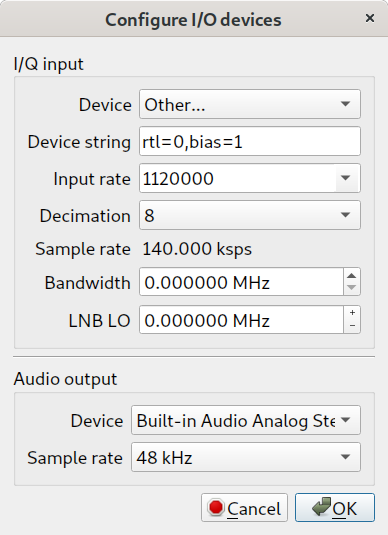
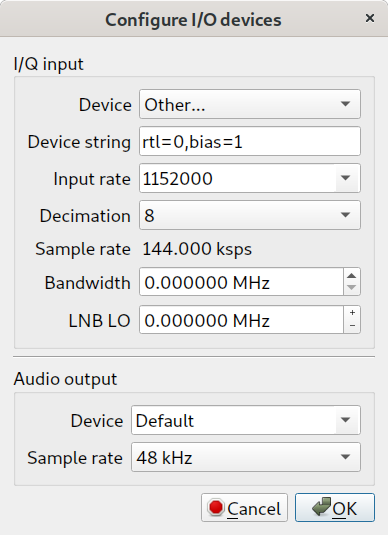
updated gqrx draft

Changed region(s): [[0.3402, 0.7776, 0.866, 0.8075], [0.4021, 0.2991, 0.5567, 0.3589], [0.4021, 0.4486, 0.5876, 0.4785]]

diff --git a/_drafts/receive-meteor-satellite-images-with-rtlsdr-gqrx-linux.md b/_drafts/receive-meteor-satellite-images-with-rtlsdr-gqrx-linux.md
@@ -1,6 +1,6 @@
 ---
 layout: post
-title: "Receive METEOR weather satellite images with RTLSDR and Gqrx on Linux"
+title: "Receive METEOR weather satellite images with RTLSDR and GQRX on Linux"
 image: "/images/themes/theme_sdradio.jpg"
 tags: [linux, rtlsdr, gqrx, meteorsat, featured]
 category: linux
@@ -25,9 +25,9 @@ There are 3 satellites in orbit:
 |Satellite|Frequency|Bandwidth|Data|Symbol rate|Modulation|
 |----------|--------|-------|--------|---|---|
 |METEOR-M N2|137.1 MHz|140 kHz|LRPT|72000|QPSK|
-|METEOR-M N2-2|137.1 MHz|140 kHz|LRPT|80000|OQPSK|
+|METEOR-M N2-2|137.9 MHz|140 kHz|LRPT|72000|OQPSK|
 
-Good online resource with more information (active APIDs, ...) is <http://happysat.nl/Meteor/html/Meteor_Status.html>
+Good online resource with more information (active APIDs, ...) is <http://happysat.nl/Meteor/html/Meteor_Status.html>.
 
 
 <!--more-->
@@ -46,7 +46,7 @@ Good online resource with more information (active APIDs, ...) is <http://happys
  * gqrx
  * gpredict
  * sox
- * meteor_demod <https://github.com/dbdexter-dev/meteor_demod> (v0.2.1 for M N2 / v0.3 for M N2-2)
+ * meteor_demod <https://github.com/dbdexter-dev/meteor_demod>
  * meteor_decoder <https://github.com/artlav/meteor_decoder>
    * alternative: meteor_decode <https://github.com/dbdexter-dev/meteor_decode>
  * meteor_rectify <https://github.com/dbdexter-dev/meteor_rectify>
@@ -56,9 +56,10 @@ Good online resource with more information (active APIDs, ...) is <http://happys
 
 I've bought a QFH antenna from a manufacturer, but there are lot of DIY tutorials out there.
 You may get good results with the RTLSDR bundle V-dipole antenna if it's correctly aligned and
-both poles have been shorten to 53.4cm, more information on <https://www.rtl-sdr.com/simple-noaameteor-weather-satellite-antenna-137-mhz-v-dipole/>.
+both poles have been shorten to 53.4cm, more information on [https://www.rtl-sdr.com/simple-noaameteor-weather-satellite-antenna-137-mhz-v-dipole/](https://www.rtl-sdr.com/simple-noaameteor-weather-satellite-antenna-137-mhz-v-dipole/).
 
 {% include image_caption.html imageurl="/images/posts/gqrx-meteor/qfh_outdoor.jpg" title="QFH antenna" caption="QFH antenna" %}
+
 
 
 # Using gpredict for pass prediction
@@ -69,28 +70,34 @@ METEOR-M2 2 satellites to the module and look at the **sky at a glance** window.
 
 {% include image_caption.html imageurl="/images/posts/gqrx-meteor/gpredict_meteor.png" title="Gpredict" caption="Gpredict" %}
 
-
+{% include image_caption.html imageurl="/images/posts/gqrx-meteor/gpredict_sky.png" title="Gpredict Sky at a glance" caption="Gpredict Sky at a glance" %}
 
 
 
 # Capture a raw IQ file with Gqrx
 
-The bandwith for METEOR LRPT signals is 140 kHz. Some people recommend to use decimation
-to improve the signal quality. I've not tested it but my usual configuration looks like:
+The bandwith for METEOR LRPT signals is 140 kHz. I usually configure the RTLSDR device
+using the following parameters.
+
 
 {% include image_caption.html imageurl="/images/posts/gqrx-meteor/gqrx_meteor_settings.png" title="Gpredict" caption="Gpredict" %}
 
-I'm using the RTLSDR aplifier which requires Bias-T powering. This can be enabled
+I'm using the RTLSDR amplifier which requires Bias-T powering. This can be enabled
 with *bias=1*. **Don't use it when you don't have the RTLSDR amplifier!**
 
 Make sure the value for the **channel offset** in tab *Receiver settings* is set to zero.
 If not, the IQ recording is not centered at the signal and you won't be able do decode
 it.
 
-Gqrx has a builtin IQ recorder. Just press record when you see the satellite signal in
-the waterfall diagramm.
+Gqrx has a builtin IQ recorder. This writes the baseband I/Q stream into a file.
 
-{% include image_caption.html imageurl="/images/posts/gqrx-meteor/gqrx_meteor_recording.png" title="Gpredict" caption="Gpredict" %}
+{% include image_caption.html imageurl="/images/posts/gqrx-meteor/gqrx_recorder.png" title="Recorder" caption="Recorder" %}
+
+This file is encoded as 2 floats (32 bit) per sample. We need to convert this file to 2 short ints (16 bit) later.
+
+When receiving a METEOR signal, the waterfall diagram should look like this:
+
+{% include image_caption.html imageurl="/images/posts/gqrx-meteor/gqrx_meteor_recording.png" title="GQRX" caption="GQRX" %}
 
 ## Convert the raw IQ file to a wav file
 
@@ -100,10 +107,10 @@ meteor_demod could only read 16 bit signed integer or 8 bit unsigned integer. Wi
 meteor_demod couldn't read the file.
 
 ~~~
-sox -t raw -e floating-point -b 32 -c 2 -r 140000 \
-   gqrx_20190908_085103_137100000_140000_fc.raw \
-   -t wav -e signed-integer -b 16 -c 2 -r 140000 \
-   gqrx_20190908_085103_137100000_140000_fc.wav
+sox -t raw -e floating-point -b 32 -c 2 -r 144000 \
+   gqrx_20191103_133844_137900000_144000_fc.raw \
+   -t wav -e signed-integer -b 16 -c 2 -r 144000 \
+   gqrx_20191103_133844_137900000_144000_fc.wav
 ~~~
 
 
@@ -113,14 +120,14 @@ If you don't want to use gqrx or want to automate the process without a GUI, you
 use rtl_fm to sample the data without using a frontend.
 ~~~
 timeout 10m rtl_fm -M raw -s 140000 -f 137.9M \
-    -E dc -g 12 -p 1 > gqrx_20190908_085103_137100000_140000_fc.raw
+    -E dc -g 12 -p 1 > raw_dump.raw
 ~~~
 After 10 minutes, the process terminates. Convert the raw file to a wav file with:
 
 ~~~
 sox -t raw -esigned-integer -b16 -r 140000 \
-    -c 2 "gqrx_20190908_085103_137100000_140000_fc.raw" \
-    -t wav gqrx_20190908_085103_137100000_140000_fc.wav
+    -c 2 "raw_dumpraw" \
+    -t wav raw_dump.wav
 ~~~
 
 A use case might be a Rasperry Pi attached to a RTLSDR dongle.
@@ -129,10 +136,10 @@ A use case might be a Rasperry Pi attached to a RTLSDR dongle.
 # Demodulate the recording
 
 For demodulation, I use the great tools from Davide Belloli. Get your copy
-from [https://github.com/dbdexter-dev/meteor_demod]() and compile it.
+from [Github](https://github.com/dbdexter-dev/meteor_demod) and compile it.
 
 ~~~
-~/sdradio/src/meteor_demod/src/meteor_demod gqrx_20190908_085103_137100000_140000_fc.wav
+~/sdradio/src/meteor_demod/src/meteor_demod -O 8 -f 128 -m oqpsk gqrx_20191103_133844_137900000_144000_fc.wav
 ~~~
 
 {% include image_caption.html imageurl="/images/posts/gqrx-meteor/meteor_demod.png" title="meteor_demod" caption="meteor_demod in action" %}
@@ -141,34 +148,34 @@ This command demodulate the recording and produces a symbol file with suffix \*.
 
 ## Differences between M N2 and M N2-2
 The current two operating satellites using different modulations (see table in first section).
-Depending on the satellite, you have to choose between symbol rate *72000* vs *80000*
-and mode *qpsk* vs. *oqpsk*.
+Depending on the satellite, you have to choose between mode *qpsk* vs. *oqpsk*.
 
-The meteor_demod utility has a command line switch **-m** to change the modulation and **-r** to change
-the symbol rate.
+The meteor_demod utility has a command line switch **-m** to change the modulation.
 
 
 # Decode the symbol file
 
 Checkout meteor_decoder from Github and compile it. It requires the freepascal compiler, Debian
 includes a package for it.
-Depending on the satellite, you need to use *differential encoding (-diff)* and *deinterleave* (-int)* for M N2-2.
+Depending on the satellite, you need to use *differential encoding (-diff)* for M N2-2.
+For M N2-2 symbolrate 80.000 (currently 72.000) you need *deinterleave (-int)*.
 
 ~~~
-~/sdradio/src/meteor_decoder/src/medet LRPT_2019_09_08-13_04.s meteor_capture
+~/sdradio/src/meteor_decoder_pascal/medet LRPT_2019_11_03-16_49.s meteor_capture -diff -r 65 -g 65 -b 64
 ~~~
 The command outputs some statistics after finished:
 ~~~
-Reading LRPT_2019_09_08-13_04.s...
- pos=95846094 ( 99.97%) ( 3, 9762,49) sig= -253 rs=(-1,-1,-1,-1) 0FFFB813
-Total:        102.968010
-Processing:   6.723472
-Correlation:  21.017412
-Viterbi:      70.001213
-ECC:          4.982072
-Remainder:    0.243836
-Packets:      4032 / 5383
-Elapsed time: 00:08:28.460
+Reading LRPT_2019_11_03-16_49...
+Dediffing...
+ pos=60632442 ( 99.97%) ( 6, 8466,50) sig= -211 rs=(-1,-1,-1,-1) 4B6CCE1A
+Total:        58.602921
+Processing:   4.060712
+Correlation:  6.565356
+Viterbi:      44.119102
+ECC:          3.052056
+Remainder:    0.805692
+Packets:      3111 / 3573
+Elapsed time: 00:06:16.728
 ~~~
 
 # Final image
@@ -176,8 +183,7 @@ Elapsed time: 00:08:28.460
 The resulting PNG file could be rectified with meteor_rectify.
 
 ~~~
-~/sdradio/src/meteor_rectify/rectify.py meteor_capture.bmp
-Opened 1568x3672 image
+Opened 1568x2464 image
 Spawning process  1
 Spawning process  2
 Spawning process  3
@@ -189,4 +195,10 @@ Spawning process  8
 Writing rectified image to meteor_capture-rectified.png
 ~~~
 
-{% include image_caption.html imageurl="/images/posts/gqrx-meteor/meteor-rectified.jpg" title="METEOR M2 weather image" caption="METEOR M2 wather image" %}
+{% include image_caption.html imageurl="/images/posts/gqrx-meteor/meteor-rectified.png" title="METEOR M2 weather image" caption="METEOR M2 wather image" %}
+
+
+# Sample files
+
+You can download the files used in this article in <https://chaospixel.com/pub/rtlsdr/gqrx_meteor/samples>.
+For private use only.
